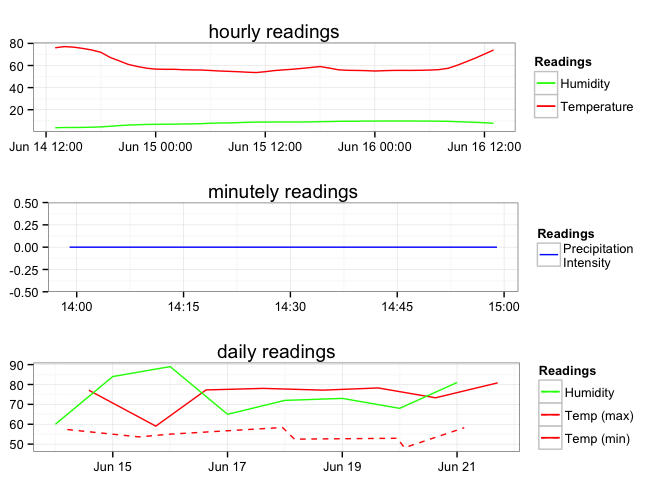
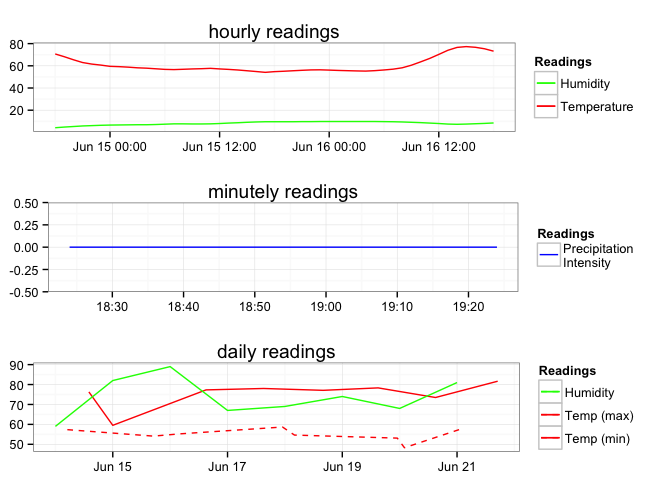
README

diff --git a/README.md b/README.md
@@ -1,9 +1,13 @@
+[![Build Status](https://travis-ci.org/hrbrmstr/Rforecastio.svg)](https://travis-ci.org/hrbrmstr/Rforecastio)
+
 Rforecastio - API access to the [Forecast API](https://developer.forecast.io/docs/v2) from R.
 
 -   Forecast API Docs: <https://developer.forecast.io/docs/v2>
 -   Forecast Dev site: <https://developer.forecast.io/>
 
 **NOTE: THIS IS A MAJOR REWRITE OF THE INTERFACE**
+
+One of the biggest changes (besides splitting one function into two) is that the API wrapper functions in this package all rely on a ForecastIO API key that now resides in the environment variable . The easiest way to get this into your environment is to set it in the `\code{.Renviron}` file in your home directory.
 
 The following functions are implemented:
 
@@ -47,16 +51,16 @@ print(now$hourly)
     ## Source: local data frame [49 x 16]
     ## 
     ##                   time       summary                icon precipIntensity precipProbability temperature
-    ## 1  2015-06-14 13:00:00         Clear           clear-day               0                 0       76.05
-    ## 2  2015-06-14 14:00:00         Clear           clear-day               0                 0       77.10
-    ## 3  2015-06-14 15:00:00         Clear           clear-day               0                 0       76.61
-    ## 4  2015-06-14 16:00:00         Clear           clear-day               0                 0       75.49
-    ## 5  2015-06-14 17:00:00         Clear           clear-day               0                 0       74.04
-    ## 6  2015-06-14 18:00:00         Clear           clear-day               0                 0       71.94
-    ## 7  2015-06-14 19:00:00 Partly Cloudy   partly-cloudy-day               0                 0       67.34
-    ## 8  2015-06-14 20:00:00 Partly Cloudy   partly-cloudy-day               0                 0       64.24
-    ## 9  2015-06-14 21:00:00 Partly Cloudy partly-cloudy-night               0                 0       61.00
-    ## 10 2015-06-14 22:00:00 Partly Cloudy partly-cloudy-night               0                 0       59.09
+    ## 1  2015-06-14 18:00:00         Clear           clear-day               0                 0       70.68
+    ## 2  2015-06-14 19:00:00 Partly Cloudy   partly-cloudy-day               0                 0       68.18
+    ## 3  2015-06-14 20:00:00 Partly Cloudy   partly-cloudy-day               0                 0       65.44
+    ## 4  2015-06-14 21:00:00 Partly Cloudy partly-cloudy-night               0                 0       62.95
+    ## 5  2015-06-14 22:00:00 Partly Cloudy partly-cloudy-night               0                 0       61.56
+    ## 6  2015-06-14 23:00:00 Mostly Cloudy partly-cloudy-night               0                 0       60.64
+    ## 7  2015-06-15 00:00:00 Mostly Cloudy partly-cloudy-night               0                 0       59.53
+    ## 8  2015-06-15 01:00:00      Overcast              cloudy               0                 0       59.24
+    ## 9  2015-06-15 02:00:00      Overcast              cloudy               0                 0       58.79
+    ## 10 2015-06-15 03:00:00      Overcast              cloudy               0                 0       58.20
     ## ..                 ...           ...                 ...             ...               ...         ...
     ## Variables not shown: apparentTemperature (dbl), dewPoint (dbl), humidity (dbl), windSpeed (dbl), windBearing (int),
     ##   visibility (dbl), cloudCover (dbl), pressure (dbl), ozone (dbl), precipType (chr)
@@ -79,7 +83,7 @@ print(then$daily)
 print(sprintf("You have used %s API calls.", then$`x-forecast-api-calls`))
 ```
 
-    ## [1] "You have used 25 API calls."
+    ## [1] "You have used 27 API calls."
 
 ``` r
 plot(now)
@@ -96,7 +100,7 @@ library(testthat)
 date()
 ```
 
-    ## [1] "Sun Jun 14 13:59:09 2015"
+    ## [1] "Sun Jun 14 18:24:34 2015"
 
 ``` r
 test_dir("tests/")
